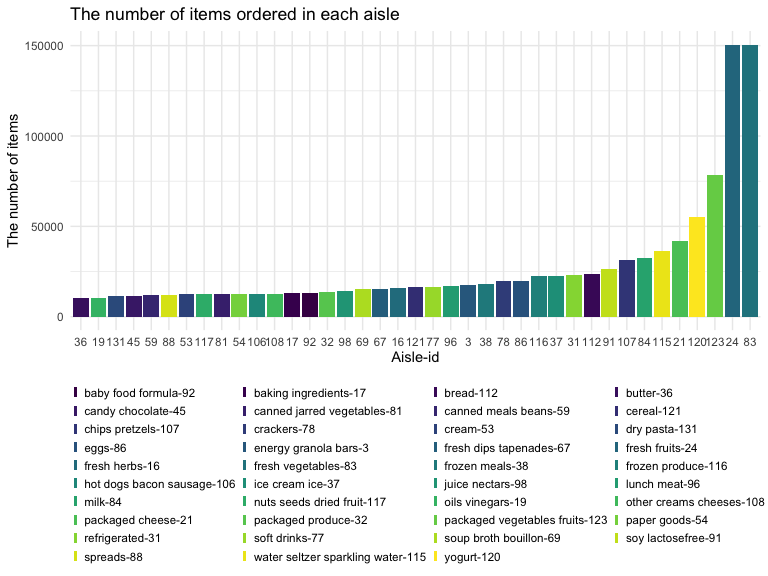
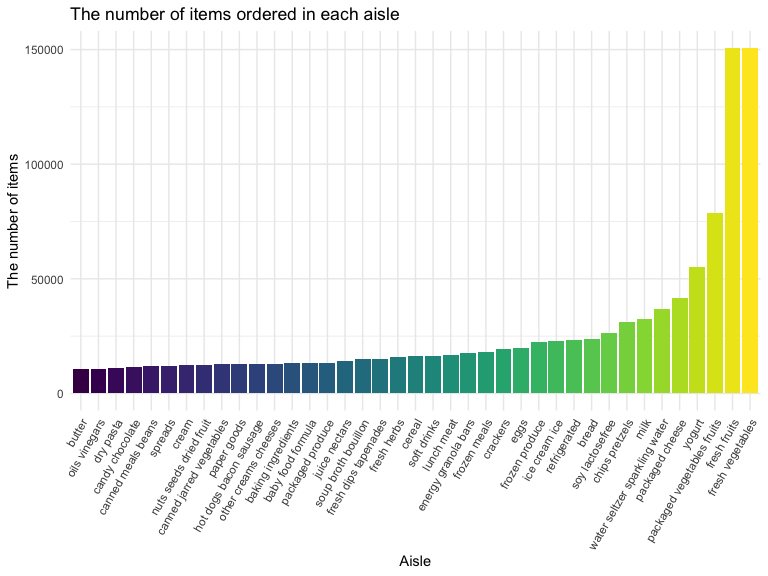
Problem1 comment

diff --git a/P8105_hw3_gl2677.md b/P8105_hw3_gl2677.md
@@ -23,39 +23,42 @@ time.
 
 ``` r
 data("instacart")
-aisle = instacart %>% 
+instacart %>% 
   group_by(aisle) %>% 
-  summarize(n = n()) 
-aisle %>% 
-  filter(min_rank(desc(n)) == 1)
+  summarize(n = n()) %>% 
+  arrange(desc(n))
 ```
 
-  - There are 134 aisles are in the dataset, and `fresh vegetables` are
-    the most items ordered from.
+  - There are totally 134 aisles in the dataset. `fresh vegetables` are
+    the most items ordered from, and the majority of items are ordered
+    from `fresh vegetables` and `fresh fruits`.
 
 <!-- end list -->
 
 ``` r
 instacart %>% 
-  mutate(aisle_id = as.character(aisle_id),
-         aisle_name_id = paste(aisle, aisle_id, sep = "-")) %>% 
-  group_by(aisle_id, aisle_name_id) %>% 
+  group_by(aisle) %>% 
   summarize(n = n()) %>% 
   filter(n > 10000) %>% 
-  ungroup %>% 
-  mutate(aisle_id = forcats::fct_reorder(aisle_id, n))  %>% 
-  ggplot(aes(x = aisle_id, y = n, fill = aisle_name_id)) +
+  mutate(aisle = forcats::fct_reorder(aisle, n)) %>% 
+  ggplot(aes(x = aisle, y = n, fill = aisle)) +
   geom_bar(stat = "identity") +
-  viridis::scale_fill_viridis(discrete = TRUE) +
   labs(title = "The number of items ordered in each aisle",
-       x = "Aisle-id",
-       y = "The number of items",
-       fill = "") +
-  theme(legend.key.size = unit(0.1, "cm")) +
-  guides(fill = guide_legend(nrow = 10, byrow = TRUE))
+       x = "Aisle",
+       y = "The number of items") +
+  theme(axis.text.x = element_text(angle = 60, hjust = 1),
+        legend.position = "none")
 ```
 
 <img src="P8105_hw3_gl2677_files/figure-gfm/plot-1.png" width="90%" />
+
+  - From the plot, it shows most of items ordered in `fresh vegetables`,
+    `fresh fruits`, and `packaged vegetables fruits`, and totally around
+    375,000 items are oredered in these three aisles. People mainly use
+    The Instacart Online Grocery Shopping to buy vegetables and fruits
+    in 2017.
+
+<!-- end list -->
 
 ``` r
 instacart %>% 
@@ -245,23 +248,28 @@ Organic Raspberries
 
 </table>
 
+  - `packaged vegetables fruits` is the most frequently ordered aisles,
+    and `dog food care` is the least frequently ordered ones. Organic
+    ingredients are often picked in these three aisles.
+
+<!-- end list -->
+
 ``` r
 instacart %>% 
   filter(product_name %in% c("Pink Lady Apples","Coffee Ice Cream")) %>%
   group_by(product_name, order_dow) %>% 
-  summarize(mean_h = mean(order_hour_of_day)) %>% 
-  pivot_wider(names_from = product_name,
-              values_from = mean_h) %>% 
+  summarize(mean_h = round(mean(order_hour_of_day))) %>% 
   mutate(order_dow = recode(order_dow, `0` = "Sunday",
                             `1` = "Monday",
                             `2` = "Tuesday",
                             `3` = "Wednesday",
                             `4` = "Thursday",
                             `5` = "Friday",
-                            `6` = "Saturday")) %>% 
-  rename("order day" = order_dow) %>% 
-  knitr::kable(digits = 0,
-               caption = "The mean hour of the day at which Pink Lady Apples and Coffee Ice Cream are ordered on each day of the week")
+                            `6` = "Saturday"),
+         mean_h = str_c(mean_h, "00", sep = ":")) %>%
+  pivot_wider(names_from = order_dow,
+              values_from = mean_h) %>% 
+  knitr::kable(caption = "The mean hour of the day at which Pink Lady Apples and Coffee Ice Cream are ordered") 
 ```
 
 <table>
@@ -269,7 +277,7 @@ instacart %>%
 <caption>
 
 The mean hour of the day at which Pink Lady Apples and Coffee Ice Cream
-are ordered on each day of the week
+are ordered
 
 </caption>
 
@@ -279,19 +287,49 @@ are ordered on each day of the week
 
 <th style="text-align:left;">
 
-order day
+product\_name
 
 </th>
 
-<th style="text-align:right;">
+<th style="text-align:left;">
 
-Coffee Ice Cream
+Sunday
 
 </th>
 
-<th style="text-align:right;">
+<th style="text-align:left;">
 
-Pink Lady Apples
+Monday
+
+</th>
+
+<th style="text-align:left;">
+
+Tuesday
+
+</th>
+
+<th style="text-align:left;">
+
+Wednesday
+
+</th>
+
+<th style="text-align:left;">
+
+Thursday
+
+</th>
+
+<th style="text-align:left;">
+
+Friday
+
+</th>
+
+<th style="text-align:left;">
+
+Saturday
 
 </th>
 
@@ -305,19 +343,49 @@ Pink Lady Apples
 
 <td style="text-align:left;">
 
-Sunday
+Coffee Ice Cream
 
 </td>
 
-<td style="text-align:right;">
+<td style="text-align:left;">
 
-14
+14:00
 
 </td>
 
-<td style="text-align:right;">
+<td style="text-align:left;">
 
-13
+14:00
+
+</td>
+
+<td style="text-align:left;">
+
+15:00
+
+</td>
+
+<td style="text-align:left;">
+
+15:00
+
+</td>
+
+<td style="text-align:left;">
+
+15:00
+
+</td>
+
+<td style="text-align:left;">
+
+12:00
+
+</td>
+
+<td style="text-align:left;">
+
+14:00
 
 </td>
 
@@ -327,129 +395,49 @@ Sunday
 
 <td style="text-align:left;">
 
-Monday
+Pink Lady Apples
 
 </td>
-
-<td style="text-align:right;">
-
-14
-
-</td>
-
-<td style="text-align:right;">
-
-11
-
-</td>
-
-</tr>
-
-<tr>
 
 <td style="text-align:left;">
 
-Tuesday
+13:00
 
 </td>
-
-<td style="text-align:right;">
-
-15
-
-</td>
-
-<td style="text-align:right;">
-
-12
-
-</td>
-
-</tr>
-
-<tr>
 
 <td style="text-align:left;">
 
-Wednesday
+11:00
 
 </td>
-
-<td style="text-align:right;">
-
-15
-
-</td>
-
-<td style="text-align:right;">
-
-14
-
-</td>
-
-</tr>
-
-<tr>
 
 <td style="text-align:left;">
 
-Thursday
+12:00
 
 </td>
-
-<td style="text-align:right;">
-
-15
-
-</td>
-
-<td style="text-align:right;">
-
-12
-
-</td>
-
-</tr>
-
-<tr>
 
 <td style="text-align:left;">
 
-Friday
+14:00
 
 </td>
-
-<td style="text-align:right;">
-
-12
-
-</td>
-
-<td style="text-align:right;">
-
-13
-
-</td>
-
-</tr>
-
-<tr>
 
 <td style="text-align:left;">
 
-Saturday
+12:00
 
 </td>
 
-<td style="text-align:right;">
+<td style="text-align:left;">
 
-14
+13:00
 
 </td>
 
-<td style="text-align:right;">
+<td style="text-align:left;">
 
-12
+12:00
 
 </td>
 
@@ -458,6 +446,11 @@ Saturday
 </tbody>
 
 </table>
+
+  - Most of `Coffee Ice Cream` is ordered between two o’clock and three
+    o’clock in the afternoon during the week. `Pink Lady Apples` is
+    ordered with unfixed time, which is between eleven o’clock in the
+    morning and two o’clock in the afternoon.
 
 ## Problem 2
 
